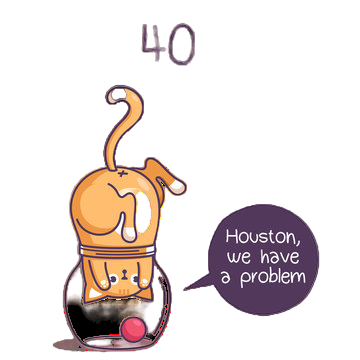
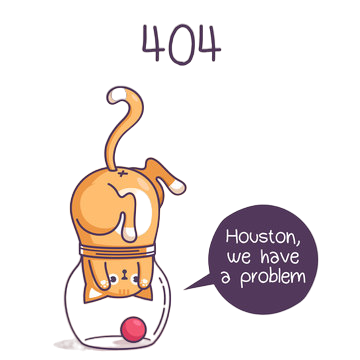
added img styling on product hover and other changes to components

diff --git a/src/app/not-found/not-found.component.css b/src/app/not-found/not-found.component.css
@@ -2,10 +2,11 @@
   display: flex;
   flex-direction: column;
   align-items: center;
-  justify-content: center;
+  justify-content: flex-start;
   height: 100vh;
   text-align: center;
-  gap: 2.6em;
+  gap: 2.2em;
+  margin-top: 1.8em;
 }
 
 .title {
@@ -13,8 +14,13 @@
   font-size: 2.6em;
 }
 
+img {
+  width: 26em;
+  height: 26em;
+}
+
 .subtitle {
-  font-size: 1.5em;
+  font-size: 1.3em;
   font-weight: bold;
   margin-bottom: 20px;
 }

diff --git a/src/app/products/products.component.css b/src/app/products/products.component.css
@@ -95,7 +95,7 @@ input {
 .description {
   display: -webkit-box;
   -webkit-box-orient: vertical;
-  -webkit-line-clamp: 1; /* Limit to 2 lines */
+  -webkit-line-clamp: 1;
   overflow: hidden;
   text-overflow: ellipsis;
   letter-spacing: 4px;
@@ -111,6 +111,7 @@ input {
 .product img {
   width: 20em;
   height: 17em;
+  mix-blend-mode: multiply;
 }
 
 .promotion p {

diff --git a/src/app/home/home.component.css b/src/app/home/home.component.css
@@ -36,7 +36,7 @@
   display: flex;
   justify-content: center;
   align-items: center;
-  gap: 3rem;
+  gap: 3.7rem;
   background-color: #eff2f6;
   padding: 2.5rem;
   flex-wrap: wrap;

diff --git a/src/app/core/navigation/navigation.component.css b/src/app/core/navigation/navigation.component.css
@@ -130,6 +130,7 @@
 @media only screen and (max-width: 700px) {
   .burger {
     display: block;
+    margin-right: 5%;
   }
 
   .navigation.unactive {
